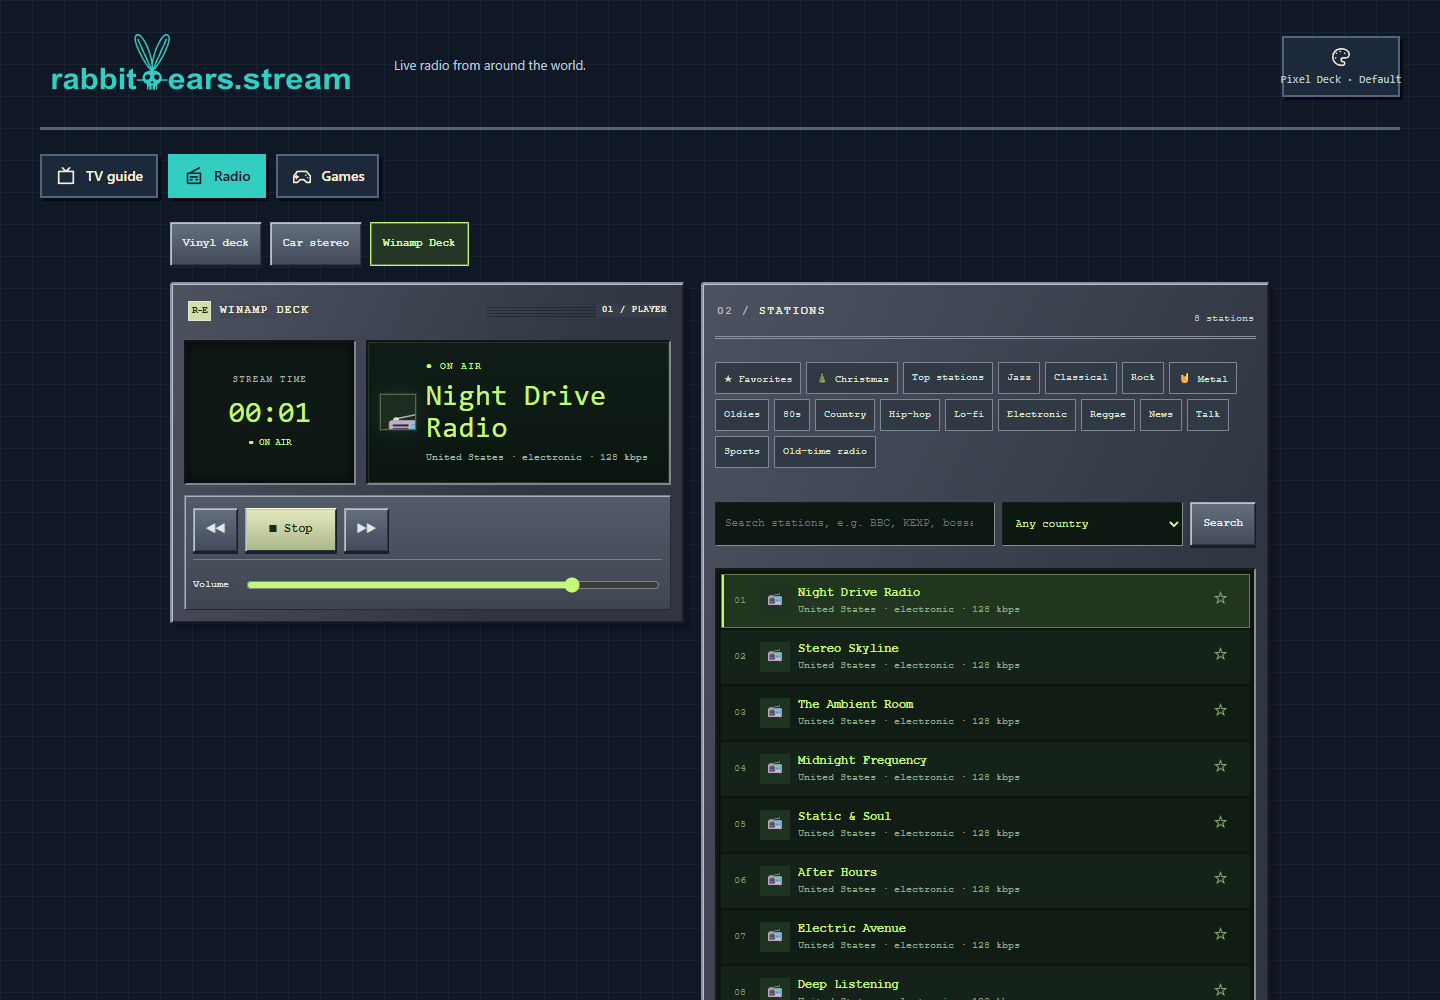
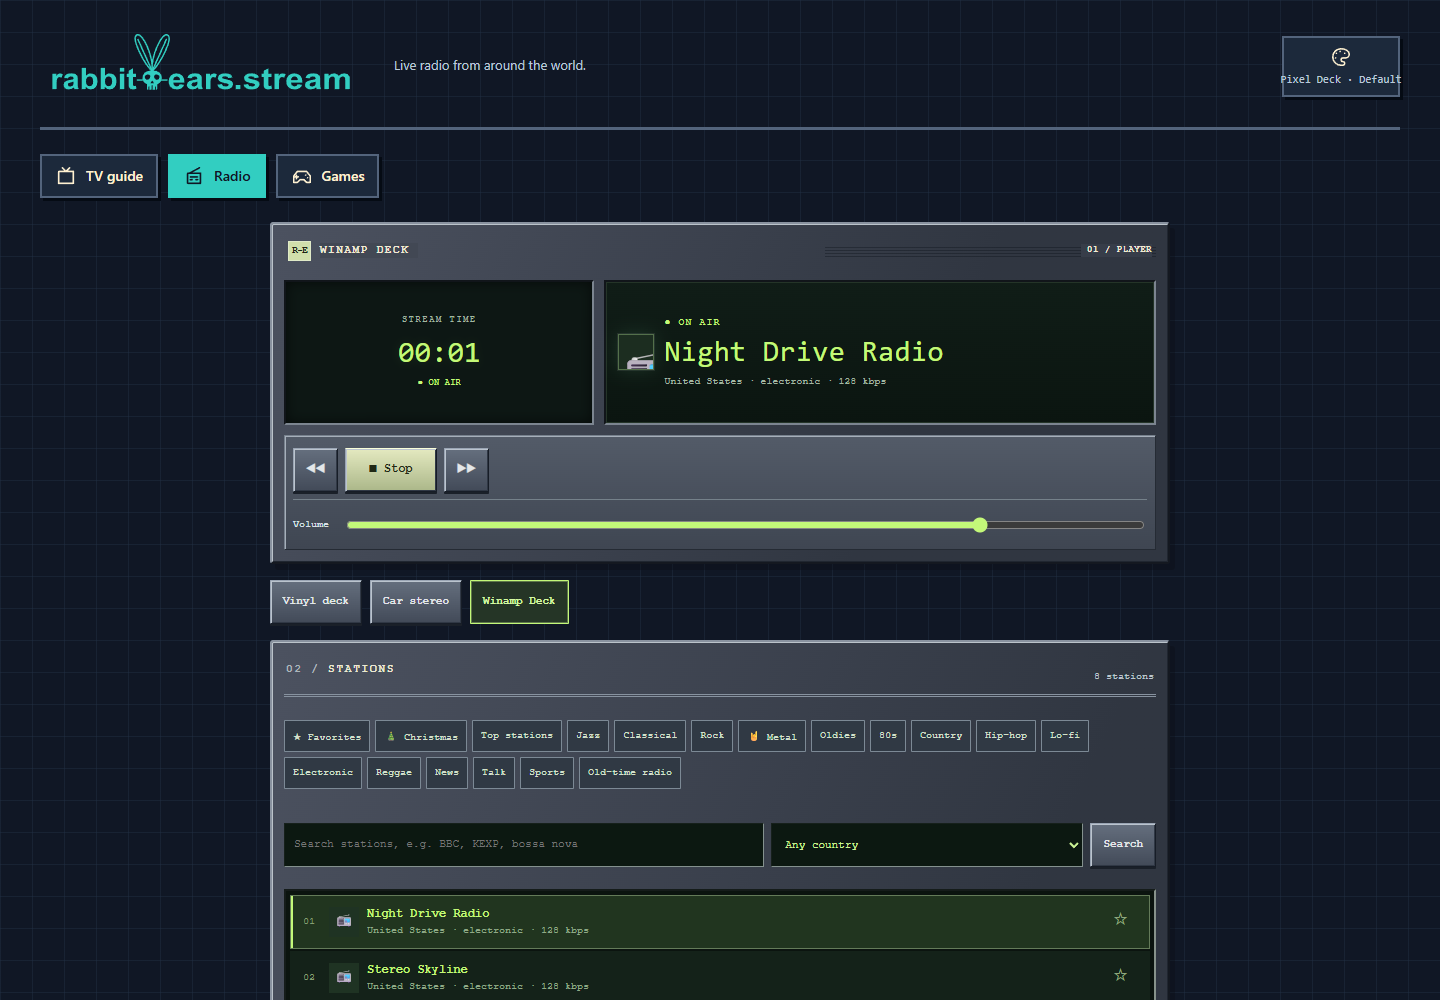
Keep Winamp radio player above settings and stations at every width

diff --git a/assets/radio-winamp.css b/assets/radio-winamp.css
@@ -3,10 +3,10 @@
 body[data-radio-look=winamp] #radioView{
   --amp-shell:#424754;--amp-edge:#89929f;--amp-dark:#11161a;--amp-ink:#e1e7ea;
   --amp-green:#c3f879;--amp-dim:#a2b7a2;
-  width:min(1100px,100%);margin-inline:auto;gap:16px;
+  width:min(900px,100%);margin-inline:auto;gap:16px;
 }
-body[data-radio-look=winamp] #radioView:not([hidden]){display:grid;grid-template-columns:minmax(0,.95fr) minmax(0,1.05fr);align-items:start}
-body[data-radio-look=winamp] .radio-appearance{grid-column:1/-1}
+body[data-radio-look=winamp] #radioView:not([hidden]){display:grid;grid-template-columns:minmax(0,1fr);align-items:start}
+body[data-radio-look=winamp] .radio-appearance{grid-column:1;grid-row:2}
 body[data-radio-look=winamp] #radioView .radio-set,
 body[data-radio-look=winamp] #radioView>.guide{
   border:2px solid #89929f;border-right-color:#141820;border-bottom-color:#141820;
@@ -14,8 +14,8 @@ body[data-radio-look=winamp] #radioView>.guide{
   box-shadow:inset 1px 1px #bbc3ca,inset -1px -1px #202630,5px 6px 0 #080d1355;
   min-width:0;padding:12px;
 }
-body[data-radio-look=winamp] #radioView .radio-set{grid-column:1;display:grid;grid-template-columns:minmax(110px,.36fr) minmax(0,.64fr);gap:10px}
-body[data-radio-look=winamp] #radioView>.guide{grid-column:2;padding-top:10px}
+body[data-radio-look=winamp] #radioView .radio-set{grid-column:1;grid-row:1;display:grid;grid-template-columns:minmax(110px,.36fr) minmax(0,.64fr);gap:10px}
+body[data-radio-look=winamp] #radioView>.guide{grid-column:1;grid-row:3;padding-top:10px}
 body[data-radio-look=winamp] .amp-titlebar{
   display:flex;align-items:center;gap:9px;grid-column:1/-1;padding:5px 4px 9px;
   color:#f0ebd5;font:700 11px/1.4 'Courier New',monospace;letter-spacing:1.5px;
@@ -86,10 +86,6 @@ body[data-radio-look=winamp] #radioView .station .tg{font:10px/1.5 'Courier New'
 body[data-radio-look=winamp] #radioView .station .fav{color:#8ea67e;border-radius:0;font-size:18px;padding:8px;min-height:38px}
 body[data-radio-look=winamp] #radioView .station .fav.on{color:#ffcf78}
 body[data-radio-look=winamp] #radioView :focus-visible{outline:2px solid #dcff9c;outline-offset:3px}
-@media(max-width:900px){
-  body[data-radio-look=winamp] #radioView:not([hidden]){grid-template-columns:minmax(0,1fr);max-width:720px}
-  body[data-radio-look=winamp] #radioView>.guide{grid-column:1}
-}
 @media(max-width:500px){
   body[data-radio-look=winamp] #radioView .radio-set{grid-template-columns:minmax(0,1fr);padding:10px;gap:9px}
   body[data-radio-look=winamp] #radioView .vfd{grid-column:1;grid-row:2;min-height:126px}

diff --git a/index.html b/index.html
@@ -322,7 +322,7 @@ select:focus-visible, textarea:focus-visible { outline: 2px solid var(--amber); 
 <link rel="stylesheet" href="assets/modular-themes.css?v=1">
 <link rel="stylesheet" href="assets/theme-tvs.css?v=1">
 <link rel="stylesheet" href="assets/theme-previews.css?v=1">
-<link rel="stylesheet" href="assets/radio-winamp.css?v=1">
+<link rel="stylesheet" href="assets/radio-winamp.css?v=2">
 <link rel="stylesheet" href="assets/captions.css?v=caption-size-3">
 </head>
 <body data-skin="pixel" data-tv-page="guide">
